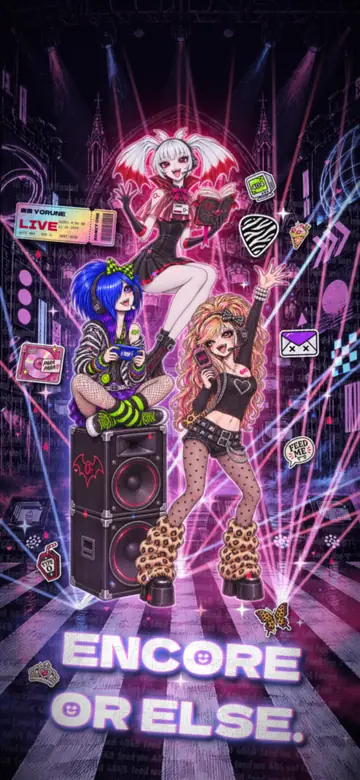
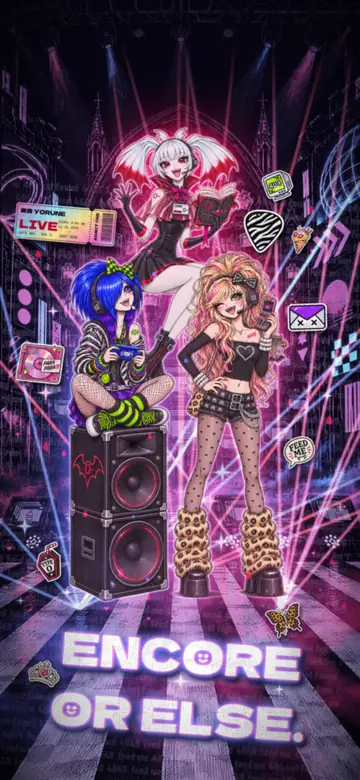
street: LOVE BITES C2, the YORUNE stage phone shows Ageha's new pose

diff --git a/index.html b/index.html
@@ -3504,7 +3504,7 @@ a.bx-cut.tall{flex-basis:36%;max-width:190px;min-width:122px}
 <div class="st-toast" id="st-toast" hidden role="status"></div>
 <script>
 (() => {
-  const ITEMS = {"A1": {"t": "PUT OUT", "k": "comic", "pk": "comic", "w": "COMIC", "what": "COMIC \u00b7 10 PAGES", "verb": "Open the bag", "cnt": 1, "img": "c-cm-putty", "view": "link", "hint": "comic", "pages": [], "caps": [], "go": "reliquary/putty/", "goT": "Read it", "goL": "Read Put Out"}, "A2": {"t": "THE FIGHT CARD", "k": "comic", "pk": "comic", "w": "COMIC", "what": "COMIC \u00b7 10 PAGES", "verb": "Open the bag", "cnt": 1, "img": "c-cm-bloodbath", "view": "link", "hint": "comic", "pages": [], "caps": [], "go": "reliquary/bloodbath/", "goT": "Read it", "goL": "Read The Fight Card"}, "A3": {"t": "THE AFTER PARTY", "k": "comic", "pk": "comic", "w": "COMIC", "what": "COMIC \u00b7 10 PAGES", "verb": "Open the bag", "cnt": 1, "img": "c-cm-afterparty", "view": "link", "hint": "comic", "pages": [], "caps": [], "go": "reliquary/afterparty/", "goT": "Read it", "goL": "Read The After Party"}, "B1": {"t": "12 CHAIRS", "k": "carousel", "pk": "zine", "w": "CAROUSEL", "what": "CAROUSEL \u00b7 16 SLIDES", "verb": "Flip it open", "cnt": 16, "img": "c-B1", "view": "swipe", "hint": "carousel", "pages": ["street/v/B1/01.webp?v=79cb67aa", "street/v/B1/02.webp?v=267f5a54", "street/v/B1/03.webp?v=4a3bafa9", "street/v/B1/04.webp?v=e3f2f2a4", "street/v/B1/05.webp?v=e895ce09", "street/v/B1/06.webp?v=dc1343a4", "street/v/B1/07.webp?v=de89894e", "street/v/B1/08.webp?v=aa40da10", "street/v/B1/09.webp?v=93f21720", "street/v/B1/10.webp?v=085b38cb", "street/v/B1/11.webp?v=e91f2452", "street/v/B1/12.webp?v=903e7208", "street/v/B1/13.webp?v=c654b1aa", "street/v/B1/14.webp?v=c6f5c178", "street/v/B1/15.webp?v=7323d976", "street/v/B1/16.webp?v=8a303df5"], "caps": ["she set out twelve chairs. seven showed up \ud83e\ude91", "plans every job. can&#x27;t touch the loot. still the boss \ud83d\udda4", "their first steal walked out with them \ud83d\udc2f", "she shoots first. that&#x27;s how half the crew got here \ud83d\udcf8", "her fake is still in their vault. nobody noticed \ud83d\udc85", "picks locks with her nails. named relic as a joke \ud83e\udd64", "the church&#x27;s security guard. our favorite inside man \ud83d\udd11", "came to fix the pipes. fixed nothing. has the polo \ud83d\ude90", "five seats left. they don&#x27;t stay empty long \ud83d\udd6f\ufe0f", "she loops their cameras live. smile, you&#x27;re on stream \ud83d\udcfa", "every gun she carries is a camera. still owes dulce \ud83d\udcb8", "watches from the roofs. can&#x27;t stop flying at the fire \ud83e\udd8b", "every witness remembers a clown. that&#x27;s the whole plan \ud83e\udd21", "zero chrome. scans clean. sweetest face in the room \ud83c\udf3b", "twelve chairs. one of them talks to the church \ud83d\udc00", "the chancery owns every miracle. we own a crowbar \ud83e\ude78"], "go": "reliquary/#12-chairs", "goT": "Full size", "goL": "12 Chairs, full size, on the lore page", "rc": [-1]}, "B2": {"t": "PATRON SAINTS", "k": "carousel", "pk": "zine", "w": "CAROUSEL", "what": "CAROUSEL \u00b7 12 SLIDES", "verb": "Flip it open", "cnt": 12, "img": "c-B2", "view": "swipe", "hint": "carousel", "pages": ["street/v/B2/01.webp?v=ee82e979", "street/v/B2/02.webp?v=51699005", "street/v/B2/03.webp?v=cf462aca", "street/v/B2/04.webp?v=d4d7d525", "street/v/B2/05.webp?v=f26f5e2e", "street/v/B2/06.webp?v=1d7cc27e", "street/v/B2/07.webp?v=671ea4e9", "street/v/B2/08.webp?v=2b2d2106", "street/v/B2/09.webp?v=ed66e669", "street/v/B2/10.webp?v=7b44cc51", "street/v/B2/11.webp?v=dbc7f0e5", "street/v/B2/12.webp?v=808609b4"], "caps": ["patron saints for your worst night out \ud83d\udd6f\ufe0f", "for the earring you lost at the function \ud83d\udc8e", "for the morning after. drink water, babe \ud83d\udca7", "for one bar of signal at the club \ud83d\udcf6", "for the bouncer who lets you skip the line \ud83d\udeaa", "imagine paying rent on a miracle. santa ossa does \ud83e\uddfe", "she was the patron saint of getting home safe \ud83d\udd4a\ufe0f", "they rented her out. rich kids never had a bad night \ud83d\udc8d", "one rental too many. her halo split into horns \ud83e\udd40", "she still hears every 3am prayer. she can&#x27;t answer one \ud83c\udf19", "so she walks you home. roof to roof \ud83d\udddd\ufe0f", "they own the saints. we own a crowbar \ud83e\ude78"], "go": "reliquary/#patron-saints", "goT": "Full size", "goL": "Patron Saints, full size, on the lore page", "rc": [-1]}, "B3": {"t": "HOW TO PLAY", "k": "carousel", "pk": "zine", "w": "CAROUSEL", "what": "CAROUSEL \u00b7 13 SLIDES", "verb": "Flip it open", "cnt": 13, "img": "c-B3", "view": "swipe", "hint": "carousel", "pages": ["street/v/B3/01.webp?v=6c05160f", "street/v/B3/02.webp?v=9889ac6b", "street/v/B3/03.webp?v=87db6956", "street/v/B3/04.webp?v=e8acfdda", "street/v/B3/05.webp?v=5f9ed15b", "street/v/B3/06.webp?v=4aa4ac8a", "street/v/B3/07.webp?v=c8cd0893", "street/v/B3/08.webp?v=26483808", "street/v/B3/09.webp?v=55ba0c36", "street/v/B3/10.webp?v=5e9973f4", "street/v/B3/11.webp?v=ab66fa87", "street/v/B3/12.webp?v=f1c9af32", "street/v/B3/13.webp?v=3ca997b2"], "caps": ["the instruction manual for robbing a church \ud83c\udfae", "side effects include a warm feeling and giving it all away \ud83d\ude07", "rob the church. give it away. go home broke \ud83d\udcb8", "pick your apostate. rin shoots first \ud83d\udcf8", "a relic does whatever its saint was patron of \u2728", "brass and stained glass, installed. it glows when it works \ud83d\udd06", "one install each. stacking is how you fall \u26a0\ufe0f", "white plate, gold fire. only smart tricks work on them \ud83d\udd25", "the scanners read chrome. june has none \ud83c\udf3b", "demons can&#x27;t step on holy ground. so cinder bought a dead one \u26ea", "watch your gold. wings mean it&#x27;s over \ud83d\udda4", "how to win: you don&#x27;t. that&#x27;s the game \ud83c\udfc6", "press start. bring a crowbar \ud83d\udd79\ufe0f"], "go": "reliquary/#how-to-play", "goT": "Full size", "goL": "How To Play, full size, on the lore page", "rc": [-1]}, "C2": {"t": "LOCK SCREENS", "k": "page", "pk": "blister", "w": "WALLPAPER", "what": "WALLPAPER \u00b7 29 PHONES", "verb": "Pop it out", "cnt": 29, "img": "c-D1", "view": "swipe", "hint": "wallpaper", "pages": ["street/v/C2/20.webp?v=f3d37e23", "street/v/C2/21.webp?v=2fa003ce", "street/v/C2/22.webp?v=6da8cb44", "street/v/C2/23.webp?v=64f33789", "street/v/C2/24.webp?v=1887d8f5", "street/v/C2/25.webp?v=95b91bd6", "street/v/C2/26.webp?v=10fa123e", "street/v/C2/27.webp?v=5005b0a4", "street/v/C2/28.webp?v=13a6631d", "street/v/C2/29.webp?v=78a22e85", "street/v/C2/17.webp?v=f03dc4c3", "street/v/C2/18.webp?v=5bedc1e8", "street/v/C2/19.webp?v=3735936b", "street/v/C2/13.webp?v=3b3e310b", "street/v/C2/14.webp?v=7d0f905e", "street/v/C2/15.webp?v=155bf4ca", "street/v/C2/16.webp?v=d5513a91", "street/v/C2/12.webp?v=7ae4cb04", "street/v/C2/11.webp?v=ec4d85a4", "street/v/C2/01.webp?v=43bfea5a", "street/v/C2/02.webp?v=02fb72b8", "street/v/C2/03.webp?v=5356161d", "street/v/C2/04.webp?v=d290e3e5", "street/v/C2/05.webp?v=68f3f0a6", "street/v/C2/06.webp?v=5363bc90", "street/v/C2/07.webp?v=927ecebc", "street/v/C2/08.webp?v=ce6fd300", "street/v/C2/09.webp?v=f8953507", "street/v/C2/10.webp?v=a3bad824"], "caps": ["Kibane Chiyu, the blood bank", "Kibane Chiyu, who she is", "Kibane Chiyu at night", "Gone Rei, the dead link", "Gone Rei, who she is", "Gone Rei at night", "Kirane Ageha, the crossing", "Kirane Ageha, who she is", "Kirane Ageha at night", "YORUNE live", "Relic in the pit", "Relic under the rose window", "Relic, not for sale", "Cinder up the tree", "Rin in the darkroom", "Nyx in the tub", "Lena crowd surfing", "BLOODBATH", "Rin as Teto", "CREW", "Bala", "Cinder", "Dulce", "Kuro", "Lena", "Mars", "Nyx", "Putty", "Rin"], "go": "wallpapers/", "goT": "Save one", "goL": "Save a lock screen, full size", "rc": [-1, -1, -1, -1, -1, -1, -1, -1, -1, -1, -1, -1, -1, -1, -1, -1, -1, -1, -1, -1, -1, -1, -1, -1, -1, -1, -1, 2, -1]}, "C3": {"t": "VP DEADEYE", "k": "page", "pk": "bar", "w": "FONT", "what": "FONT \u00b7 FREE TO USE", "verb": "Unwrap it", "cnt": 1, "img": "c-D7", "view": "type", "hint": "font", "pages": ["street/v/C3/01.webp?v=f4529236"], "caps": [], "go": "font/", "goT": "Get it", "goL": "Get the font, free"}};
+  const ITEMS = {"A1": {"t": "PUT OUT", "k": "comic", "pk": "comic", "w": "COMIC", "what": "COMIC \u00b7 10 PAGES", "verb": "Open the bag", "cnt": 1, "img": "c-cm-putty", "view": "link", "hint": "comic", "pages": [], "caps": [], "go": "reliquary/putty/", "goT": "Read it", "goL": "Read Put Out"}, "A2": {"t": "THE FIGHT CARD", "k": "comic", "pk": "comic", "w": "COMIC", "what": "COMIC \u00b7 10 PAGES", "verb": "Open the bag", "cnt": 1, "img": "c-cm-bloodbath", "view": "link", "hint": "comic", "pages": [], "caps": [], "go": "reliquary/bloodbath/", "goT": "Read it", "goL": "Read The Fight Card"}, "A3": {"t": "THE AFTER PARTY", "k": "comic", "pk": "comic", "w": "COMIC", "what": "COMIC \u00b7 10 PAGES", "verb": "Open the bag", "cnt": 1, "img": "c-cm-afterparty", "view": "link", "hint": "comic", "pages": [], "caps": [], "go": "reliquary/afterparty/", "goT": "Read it", "goL": "Read The After Party"}, "B1": {"t": "12 CHAIRS", "k": "carousel", "pk": "zine", "w": "CAROUSEL", "what": "CAROUSEL \u00b7 16 SLIDES", "verb": "Flip it open", "cnt": 16, "img": "c-B1", "view": "swipe", "hint": "carousel", "pages": ["street/v/B1/01.webp?v=79cb67aa", "street/v/B1/02.webp?v=267f5a54", "street/v/B1/03.webp?v=4a3bafa9", "street/v/B1/04.webp?v=e3f2f2a4", "street/v/B1/05.webp?v=e895ce09", "street/v/B1/06.webp?v=dc1343a4", "street/v/B1/07.webp?v=de89894e", "street/v/B1/08.webp?v=aa40da10", "street/v/B1/09.webp?v=93f21720", "street/v/B1/10.webp?v=085b38cb", "street/v/B1/11.webp?v=e91f2452", "street/v/B1/12.webp?v=903e7208", "street/v/B1/13.webp?v=c654b1aa", "street/v/B1/14.webp?v=c6f5c178", "street/v/B1/15.webp?v=7323d976", "street/v/B1/16.webp?v=8a303df5"], "caps": ["she set out twelve chairs. seven showed up \ud83e\ude91", "plans every job. can&#x27;t touch the loot. still the boss \ud83d\udda4", "their first steal walked out with them \ud83d\udc2f", "she shoots first. that&#x27;s how half the crew got here \ud83d\udcf8", "her fake is still in their vault. nobody noticed \ud83d\udc85", "picks locks with her nails. named relic as a joke \ud83e\udd64", "the church&#x27;s security guard. our favorite inside man \ud83d\udd11", "came to fix the pipes. fixed nothing. has the polo \ud83d\ude90", "five seats left. they don&#x27;t stay empty long \ud83d\udd6f\ufe0f", "she loops their cameras live. smile, you&#x27;re on stream \ud83d\udcfa", "every gun she carries is a camera. still owes dulce \ud83d\udcb8", "watches from the roofs. can&#x27;t stop flying at the fire \ud83e\udd8b", "every witness remembers a clown. that&#x27;s the whole plan \ud83e\udd21", "zero chrome. scans clean. sweetest face in the room \ud83c\udf3b", "twelve chairs. one of them talks to the church \ud83d\udc00", "the chancery owns every miracle. we own a crowbar \ud83e\ude78"], "go": "reliquary/#12-chairs", "goT": "Full size", "goL": "12 Chairs, full size, on the lore page", "rc": [-1]}, "B2": {"t": "PATRON SAINTS", "k": "carousel", "pk": "zine", "w": "CAROUSEL", "what": "CAROUSEL \u00b7 12 SLIDES", "verb": "Flip it open", "cnt": 12, "img": "c-B2", "view": "swipe", "hint": "carousel", "pages": ["street/v/B2/01.webp?v=ee82e979", "street/v/B2/02.webp?v=51699005", "street/v/B2/03.webp?v=cf462aca", "street/v/B2/04.webp?v=d4d7d525", "street/v/B2/05.webp?v=f26f5e2e", "street/v/B2/06.webp?v=1d7cc27e", "street/v/B2/07.webp?v=671ea4e9", "street/v/B2/08.webp?v=2b2d2106", "street/v/B2/09.webp?v=ed66e669", "street/v/B2/10.webp?v=7b44cc51", "street/v/B2/11.webp?v=dbc7f0e5", "street/v/B2/12.webp?v=808609b4"], "caps": ["patron saints for your worst night out \ud83d\udd6f\ufe0f", "for the earring you lost at the function \ud83d\udc8e", "for the morning after. drink water, babe \ud83d\udca7", "for one bar of signal at the club \ud83d\udcf6", "for the bouncer who lets you skip the line \ud83d\udeaa", "imagine paying rent on a miracle. santa ossa does \ud83e\uddfe", "she was the patron saint of getting home safe \ud83d\udd4a\ufe0f", "they rented her out. rich kids never had a bad night \ud83d\udc8d", "one rental too many. her halo split into horns \ud83e\udd40", "she still hears every 3am prayer. she can&#x27;t answer one \ud83c\udf19", "so she walks you home. roof to roof \ud83d\udddd\ufe0f", "they own the saints. we own a crowbar \ud83e\ude78"], "go": "reliquary/#patron-saints", "goT": "Full size", "goL": "Patron Saints, full size, on the lore page", "rc": [-1]}, "B3": {"t": "HOW TO PLAY", "k": "carousel", "pk": "zine", "w": "CAROUSEL", "what": "CAROUSEL \u00b7 13 SLIDES", "verb": "Flip it open", "cnt": 13, "img": "c-B3", "view": "swipe", "hint": "carousel", "pages": ["street/v/B3/01.webp?v=6c05160f", "street/v/B3/02.webp?v=9889ac6b", "street/v/B3/03.webp?v=87db6956", "street/v/B3/04.webp?v=e8acfdda", "street/v/B3/05.webp?v=5f9ed15b", "street/v/B3/06.webp?v=4aa4ac8a", "street/v/B3/07.webp?v=c8cd0893", "street/v/B3/08.webp?v=26483808", "street/v/B3/09.webp?v=55ba0c36", "street/v/B3/10.webp?v=5e9973f4", "street/v/B3/11.webp?v=ab66fa87", "street/v/B3/12.webp?v=f1c9af32", "street/v/B3/13.webp?v=3ca997b2"], "caps": ["the instruction manual for robbing a church \ud83c\udfae", "side effects include a warm feeling and giving it all away \ud83d\ude07", "rob the church. give it away. go home broke \ud83d\udcb8", "pick your apostate. rin shoots first \ud83d\udcf8", "a relic does whatever its saint was patron of \u2728", "brass and stained glass, installed. it glows when it works \ud83d\udd06", "one install each. stacking is how you fall \u26a0\ufe0f", "white plate, gold fire. only smart tricks work on them \ud83d\udd25", "the scanners read chrome. june has none \ud83c\udf3b", "demons can&#x27;t step on holy ground. so cinder bought a dead one \u26ea", "watch your gold. wings mean it&#x27;s over \ud83d\udda4", "how to win: you don&#x27;t. that&#x27;s the game \ud83c\udfc6", "press start. bring a crowbar \ud83d\udd79\ufe0f"], "go": "reliquary/#how-to-play", "goT": "Full size", "goL": "How To Play, full size, on the lore page", "rc": [-1]}, "C2": {"t": "LOCK SCREENS", "k": "page", "pk": "blister", "w": "WALLPAPER", "what": "WALLPAPER \u00b7 29 PHONES", "verb": "Pop it out", "cnt": 29, "img": "c-D1", "view": "swipe", "hint": "wallpaper", "pages": ["street/v/C2/20.webp?v=f3d37e23", "street/v/C2/21.webp?v=2fa003ce", "street/v/C2/22.webp?v=6da8cb44", "street/v/C2/23.webp?v=64f33789", "street/v/C2/24.webp?v=1887d8f5", "street/v/C2/25.webp?v=95b91bd6", "street/v/C2/26.webp?v=10fa123e", "street/v/C2/27.webp?v=5005b0a4", "street/v/C2/28.webp?v=13a6631d", "street/v/C2/29.webp?v=583f9424", "street/v/C2/17.webp?v=f03dc4c3", "street/v/C2/18.webp?v=5bedc1e8", "street/v/C2/19.webp?v=3735936b", "street/v/C2/13.webp?v=3b3e310b", "street/v/C2/14.webp?v=7d0f905e", "street/v/C2/15.webp?v=155bf4ca", "street/v/C2/16.webp?v=d5513a91", "street/v/C2/12.webp?v=7ae4cb04", "street/v/C2/11.webp?v=ec4d85a4", "street/v/C2/01.webp?v=43bfea5a", "street/v/C2/02.webp?v=02fb72b8", "street/v/C2/03.webp?v=5356161d", "street/v/C2/04.webp?v=d290e3e5", "street/v/C2/05.webp?v=68f3f0a6", "street/v/C2/06.webp?v=5363bc90", "street/v/C2/07.webp?v=927ecebc", "street/v/C2/08.webp?v=ce6fd300", "street/v/C2/09.webp?v=f8953507", "street/v/C2/10.webp?v=a3bad824"], "caps": ["Kibane Chiyu, the blood bank", "Kibane Chiyu, who she is", "Kibane Chiyu at night", "Gone Rei, the dead link", "Gone Rei, who she is", "Gone Rei at night", "Kirane Ageha, the crossing", "Kirane Ageha, who she is", "Kirane Ageha at night", "YORUNE live", "Relic in the pit", "Relic under the rose window", "Relic, not for sale", "Cinder up the tree", "Rin in the darkroom", "Nyx in the tub", "Lena crowd surfing", "BLOODBATH", "Rin as Teto", "CREW", "Bala", "Cinder", "Dulce", "Kuro", "Lena", "Mars", "Nyx", "Putty", "Rin"], "go": "wallpapers/", "goT": "Save one", "goL": "Save a lock screen, full size", "rc": [-1, -1, -1, -1, -1, -1, -1, -1, -1, -1, -1, -1, -1, -1, -1, -1, -1, -1, -1, -1, -1, -1, -1, -1, -1, -1, -1, 2, -1]}, "C3": {"t": "VP DEADEYE", "k": "page", "pk": "bar", "w": "FONT", "what": "FONT \u00b7 FREE TO USE", "verb": "Unwrap it", "cnt": 1, "img": "c-D7", "view": "type", "hint": "font", "pages": ["street/v/C3/01.webp?v=f4529236"], "caps": [], "go": "font/", "goT": "Get it", "goL": "Get the font, free"}};
   const EXT = {"S0": {"t": "THIRTY-THREE YEARS, ONE MEMO", "w": "PAPER", "code": "THE SCANDAL", "src": "street/s/paper-0.webp?v=b8f2c8ef", "fn": "__nbOpen"}, "S1": {"t": "HER OWN PASS, ONE SONG", "w": "PAPER", "code": "THE SHOP", "src": "street/s/paper-1.webp?v=424cba6c", "fn": "__nbOpen"}, "S2": {"t": "SAN ANTONIO PLAYS AT 11", "w": "PAPER", "code": "THE COUNTDOWN", "src": "street/s/paper-2.webp?v=b48c4e57", "fn": "__nbOpen"}, "S3": {"t": "ONE NIGHT IN MAY", "w": "PAPER", "code": "THE RUN", "src": "street/s/paper-3.webp?v=ddd97b99", "fn": "__nbOpen"}, "S4": {"t": "THE ALBUM HAS A NARRATOR", "w": "PAPER", "code": "THE RECORD", "src": "street/s/paper-4.webp?v=d9dc0663", "fn": "__nbOpen"}, "S5": {"t": "FRIDAY THE 13TH, PICK YOUR NIGHT", "w": "PAPER", "code": "THE CALENDAR", "src": "street/s/paper-5.webp?v=972527a6", "fn": "__nbOpen"}, "S6": {"t": "BOTH BANDS LEFT TOWN", "w": "PAPER", "code": "THE RUN", "src": "street/s/paper-6.webp?v=27a03334", "fn": "__nbOpen"}, "S7": {"t": "THE NEXT HEADLINER WAS A PRANK", "w": "PAPER", "code": "THE SHOP", "src": "street/s/paper-7.webp?v=82a391d2", "fn": "__nbOpen"}, "S8": {"t": "BLACK PUNK IS A LABEL NOW", "w": "PAPER", "code": "THE RECORD", "src": "street/s/paper-8.webp?v=cf42a4bd", "fn": "__nbOpen"}, "S9": {"t": "THE SHOP IS FREE FOR FOURTEEN DAYS", "w": "PAPER", "code": "THE SHOP", "src": "street/s/paper-9.webp?v=d8f52730", "fn": "__nbOpen"}, "S10": {"t": "NOCTURNAL LANDS NOVEMBER 27", "w": "PAPER", "code": "THE RECORD", "src": "street/s/paper-10.webp?v=128669e0", "fn": "__nbOpen"}, "S11": {"t": "SAN ANTONIO, PICK YOUR NIGHT", "w": "PAPER", "code": "THE CALENDAR", "src": "street/s/paper-11.webp?v=782767d0", "fn": "__nbOpen"}, "S12": {"t": "SHOOT THE BAND FROM DAY ONE", "w": "PAPER", "code": "THE CRAFT", "src": "street/s/paper-12.webp?v=c1dca70c", "fn": "__nbOpen"}, "S13": {"t": "HALLOWEEN GOT ITS SATURDAY", "w": "PAPER", "code": "THE COUNTDOWN", "src": "street/s/paper-13.webp?v=10ef66bb", "fn": "__nbOpen"}, "S14": {"t": "HALF A REIGN IN BLOOD", "w": "PAPER", "code": "THE FESTIVAL", "src": "street/s/paper-14.webp?v=e4ae97f6", "fn": "__nbOpen"}, "S15": {"t": "THE ITEM SHOP IS THE NEW MTV", "w": "PAPER", "code": "THE SHOP", "src": "street/s/paper-15.webp?v=a85cd334", "fn": "__nbOpen"}, "S16": {"t": "NOBODY KNOWS WHAT A STREAMER IS", "w": "PAPER", "code": "THE BALLOT", "src": "street/s/paper-16.webp?v=7f679cd3", "fn": "__nbOpen"}, "S17": {"t": "HORROR'S FARM LEAGUE IS THE INTERNET", "w": "PAPER", "code": "THE FILM", "src": "street/s/paper-17.webp?v=20d96d22", "fn": "__nbOpen"}, "S18": {"t": "THIS IS A DORM", "w": "PAPER", "code": "THE ROOMS", "src": "street/s/paper-18.webp?v=e71dba3f", "fn": "__nbOpen"}, "S19": {"t": "SEVEN SEATS AT THE BACK OF THE LIST", "w": "PAPER", "code": "THE RECORD", "src": "street/s/paper-19.webp?v=f1cd397d", "fn": "__nbOpen"}, "S20": {"t": "AND THEN NOTHING HAPPENED", "w": "PAPER", "code": "THE CRAFT", "src": "street/s/paper-20.webp?v=d47b2133", "fn": "__nbOpen"}, "S21": {"t": "WHAT THE DIRECTOR WHISPERED", "w": "PAPER", "code": "THE CRAFT", "src": "street/s/paper-21.webp?v=1960f6aa", "fn": "__nbOpen"}, "S22": {"t": "IT WAS NEVER ONE TAKE", "w": "PAPER", "code": "THE CRAFT", "src": "street/s/paper-22.webp?v=44ac9c9a", "fn": "__nbOpen"}, "S23": {"t": "EVERY LIGHT NEEDS AN ALIBI", "w": "PAPER", "code": "THE CRAFT", "src": "street/s/paper-23.webp?v=589af33e", "fn": "__nbOpen"}, "S24": {"t": "THE LIGHTSABER WAS A PROJECTOR", "w": "PAPER", "code": "THE CRAFT", "src": "street/s/paper-24.webp?v=55ed2a93", "fn": "__nbOpen"}, "S25": {"t": "THE VAMPIRE PAINTER DREW 2HOLLIS", "w": "PAPER", "code": "THE RECORD", "src": "street/s/paper-25.webp?v=b8eeef94", "fn": "__nbOpen"}, "S26": {"t": "LAST LOOK BEFORE THE TAPE", "w": "PAPER", "code": "THE RUN", "src": "street/s/paper-26.webp?v=7daad7c9", "fn": "__nbOpen"}, "S27": {"t": "THE HAUNTED HOUSE HAS A WAIVER NOW", "w": "PAPER", "code": "THE COUNTDOWN", "src": "street/s/paper-27.webp?v=5a53bf9b", "fn": "__nbOpen"}, "S28": {"t": "THE WOLF KEEPS A CALENDAR", "w": "PAPER", "code": "THE FILM", "src": "street/s/paper-28.webp?v=80059fc1", "fn": "__nbOpen"}, "S29": {"t": "FOUR PRINTS OF A WET NIGHT", "w": "PAPER", "code": "THE NIGHT", "src": "street/s/paper-29.webp?v=814f8e7a", "fn": "__nbOpen"}, "S30": {"t": "FOUR BANDS AND ONE RED LIGHT", "w": "PAPER", "code": "THE NIGHT", "src": "street/s/paper-30.webp?v=b1c7e11e", "fn": "__nbOpen"}, "S31": {"t": "EMERALD, CREAM AND TAKEOUT RED", "w": "PAPER", "code": "THE NIGHT", "src": "street/s/paper-31.webp?v=d4f5e717", "fn": "__nbOpen"}, "S32": {"t": "SILVER, BLOOD AND LAPIS", "w": "PAPER", "code": "THE NIGHT", "src": "street/s/paper-32.webp?v=eceaa6d8", "fn": "__nbOpen"}, "S33": {"t": "THE TREES CAME OUT CRIMSON", "w": "PAPER", "code": "THE NIGHT", "src": "street/s/paper-33.webp?v=858900fa", "fn": "__nbOpen"}, "S34": {"t": "THE ROOM WAS DEAD SO WE LEFT", "w": "PAPER", "code": "THE NIGHT", "src": "street/s/paper-34.webp?v=02b1b461", "fn": "__nbOpen"}, "S35": {"t": "RED ON RED ON RED", "w": "PAPER", "code": "THE NIGHT", "src": "street/s/paper-35.webp?v=624f28b1", "fn": "__nbOpen"}, "S36": {"t": "BULL MADRID, THEN EVERYONE IN BLACK", "w": "PAPER", "code": "THE NIGHT", "src": "street/s/paper-36.webp?v=a96ae119", "fn": "__nbOpen"}, "S37": {"t": "EVERY ROOM A DIFFERENT COLOUR", "w": "PAPER", "code": "THE NIGHT", "src": "street/s/paper-37.webp?v=e96a7124", "fn": "__nbOpen"}, "S38": {"t": "THE NIGHT BEFORE B.I.L.L.Y", "w": "PAPER", "code": "THE NIGHT", "src": "street/s/paper-38.webp?v=69c81135", "fn": "__nbOpen"}, "S39": {"t": "THE AFTERPARTY IS THE SAN ANTONIO DATE", "w": "PAPER", "code": "THE RUN", "src": "street/s/paper-39.webp?v=75d092a9", "fn": "__nbOpen"}, "S40": {"t": "SAN ANTONIO GOES FIRST", "w": "PAPER", "code": "THE ARENA", "src": "street/s/paper-40.webp?v=acb8a539", "fn": "__nbOpen"}, "S41": {"t": "GET THERE EARLY", "w": "PAPER", "code": "THE RUN", "src": "street/s/paper-41.webp?v=8ca1bc3a", "fn": "__nbOpen"}, "S42": {"t": "THE BLOOD COUNTESS IS PLAYING AUSTIN", "w": "PAPER", "code": "THE FESTIVAL", "src": "street/s/paper-42.webp?v=1c6378af", "fn": "__nbOpen"}, "S43": {"t": "THEY WILL THINK YOU ARE A LUNATIC", "w": "PAPER", "code": "THE INTERVIEW", "src": "street/s/paper-43.webp?v=327cfb8d", "fn": "__nbOpen"}, "S44": {"t": "ONE CLOWN PER FIVE CIVILIANS", "w": "PAPER", "code": "THE NIGHT", "src": "street/s/paper-44.webp?v=5fe7047b", "fn": "__nbOpen"}, "S45": {"t": "SIXTEEN, A LAPTOP, FOUR HUNDRED MILLION", "w": "PAPER", "code": "THE DEBUT", "src": "street/s/paper-45.webp?v=cc916e83", "fn": "__nbOpen"}, "S46": {"t": "OPIUM BOUGHT THE WHOLE CONVENTION", "w": "PAPER", "code": "THE TAKEOVER", "src": "street/s/paper-46.webp?v=c657ec15", "fn": "__nbOpen"}, "S47": {"t": "NOBODY SAYS A WORD", "w": "PAPER", "code": "THE FILM", "src": "street/s/paper-47.webp?v=57312ecc", "fn": "__nbOpen"}, "S48": {"t": "THE RAGE KID GOT SOBER", "w": "PAPER", "code": "THE RECORD", "src": "street/s/paper-48.webp?v=66aa4d99", "fn": "__nbOpen"}, "S49": {"t": "GOTH WITH A BEAUTY BUDGET", "w": "PAPER", "code": "THE LOOK", "src": "street/s/paper-49.webp?v=f948cf43", "fn": "__nbOpen"}, "S50": {"t": "THE FALL RUN", "w": "PAPER", "code": "THE CALENDAR", "src": "street/s/paper-50.webp?v=24f0f710", "fn": "__nbOpen"}, "N0": {"t": "BLOODBATH 4", "w": "PHOTOS", "code": "11.13.26", "src": "street/s/pb/0-1.webp?v=07e0c181", "fn": "__pbOpen"}, "N1": {"t": "THE ODD BALL", "w": "PHOTOS", "code": "10.31.26", "src": "street/s/pb/1-1.webp?v=662c504f", "fn": "__pbOpen"}, "N2": {"t": "PULSE ANGELS 3", "w": "PHOTOS", "code": "10.03.26", "src": "street/s/pb/2-1.webp?v=641b2703", "fn": "__pbOpen"}, "N3": {"t": "WAP", "w": "PHOTOS", "code": "09.25.26", "src": "street/s/pb/3-1.webp?v=cfc22924", "fn": "__pbOpen"}, "N4": {"t": "HARAMBE 4 EVER", "w": "PHOTOS", "code": "09.24.26", "src": "street/s/pb/4-1.webp?v=07919176", "fn": "__pbOpen"}, "N5": {"t": "CHILL & SMOKE", "w": "PHOTOS", "code": "09.20.26", "src": "street/s/pb/5-1.webp?v=ca3e6f7c", "fn": "__pbOpen"}, "N6": {"t": "THIRD FRIDAY NIGHT MARKET", "w": "PHOTOS", "code": "09.18.26", "src": "street/s/pb/6-1.webp?v=21a9bebc", "fn": "__pbOpen"}, "N7": {"t": "BAPTISM", "w": "PHOTOS", "code": "09.18.26", "src": "street/s/pb/7-1.webp?v=47492a0f", "fn": "__pbOpen"}, "N8": {"t": "BAR HOP", "w": "PHOTOS", "code": "09.17.26", "src": "street/s/pb/8-1.webp?v=1e1394c0", "fn": "__pbOpen"}, "N9": {"t": "SADBOYZ CLUB", "w": "PHOTOS", "code": "09.16.26", "src": "street/s/pb/9-1.webp?v=5ffc2513", "fn": "__pbOpen"}, "N10": {"t": "BURLESQUE NIGHT", "w": "PHOTOS", "code": "09.13.26", "src": "street/s/pb/10-1.webp?v=5775ceed", "fn": "__pbOpen"}, "N11": {"t": "LUCHA NIGHT", "w": "PHOTOS", "code": "09.12.26", "src": "street/s/pb/11-1.webp?v=c792dc1b", "fn": "__pbOpen"}, "N12": {"t": "MIGX", "w": "PHOTOS", "code": "09.12.26", "src": "street/s/pb/12-1.webp?v=0dbff6bb", "fn": "__pbOpen"}, "N13": {"t": "BRAINROT", "w": "PHOTOS", "code": "09.11.26", "src": "street/s/pb/13-1.webp?v=1c8aeda4", "fn": "__pbOpen"}, "N14": {"t": "B.I.L.L.Y RELEASE PARTY", "w": "PHOTOS", "code": "09.01.26", "src": "street/s/pb/14-1.webp?v=525c583c", "fn": "__pbOpen"}, "N15": {"t": "CLOWN CHURCH", "w": "PHOTOS", "code": "08.30.26", "src": "street/s/pb/15-1.webp?v=3516f79b", "fn": "__pbOpen"}, "N16": {"t": "RESIDENT EVIL VS SILENT HILL", "w": "PHOTOS", "code": "08.25.26", "src": "street/s/pb/16-1.webp?v=8a8c1cf7", "fn": "__pbOpen"}, "N17": {"t": "THE SHOWCASE", "w": "PHOTOS", "code": "08.23.26", "src": "street/s/pb/17-1.webp?v=3b0697ea", "fn": "__pbOpen"}, "N18": {"t": "THIRD FRIDAY NIGHT MARKET", "w": "PHOTOS", "code": "08.21.26", "src": "street/s/pb/18-1.webp?v=2b9be5aa", "fn": "__pbOpen"}, "N19": {"t": "THE MIX", "w": "PHOTOS", "code": "08.16.26", "src": "street/s/pb/19-1.webp?v=5647b033", "fn": "__pbOpen"}, "N20": {"t": "BLADE RAVE", "w": "PHOTOS", "code": "08.14.26", "src": "street/s/pb/20-1.webp?v=f9d25922", "fn": "__pbOpen"}, "JA1": {"t": "ØWAY", "w": "RECORD", "code": "A1", "src": "street/s/jb-art-3gaH1lcvaoTibA4dZ1CyzK.webp?v=5ba1889d", "fn": "__jbOpen"}, "JA2": {"t": "24HRS", "w": "RECORD", "code": "A2", "src": "street/s/jb-art-0AlTIOiF5u0sHdsEvBU2av.webp?v=921e74f0", "fn": "__jbOpen"}, "JA3": {"t": "LL50", "w": "RECORD", "code": "A3", "src": "street/s/jb-art-0NwBVCDFDAXvhhlqeUEVIf.webp?v=7d6895b7", "fn": "__jbOpen"}, "JA4": {"t": "TURN UP", "w": "RECORD", "code": "A4", "src": "street/s/jb-art-1s5P9UA3dokSsHaEH8rYn1.webp?v=fac130a3", "fn": "__jbOpen"}, "JA5": {"t": "WHITE FLAG", "w": "RECORD", "code": "A5", "src": "street/s/jb-art-2WyUJEFZ6vQzTwSdKzqLrx.webp?v=1e32f2e2", "fn": "__jbOpen"}, "JA6": {"t": "I THINK HE'S GOT A GIRL", "w": "RECORD", "code": "A6", "src": "street/s/jb-art-5KJwFcJc0m1u4F8mVkwT5Y.webp?v=56a74865", "fn": "__jbOpen"}, "JA7": {"t": "LIGHT LEAK", "w": "RECORD", "code": "A7", "src": "street/s/jb-art-10Fq3Aq8hu8hELDkpYWJVf.webp?v=9034bb99", "fn": "__jbOpen"}, "JB1": {"t": "EVERYWHERE", "w": "RECORD", "code": "B1", "src": "street/s/jb-art-3R4688V6wZhUXxH7DFLBoY.webp?v=e1fbe1a0", "fn": "__jbOpen"}, "JB2": {"t": "UNDER YOUR LASHLINE", "w": "RECORD", "code": "B2", "src": "street/s/jb-art-70U39BTtK06FqZuXIRcUEM.webp?v=b21a57ab", "fn": "__jbOpen"}, "JB3": {"t": "TALK", "w": "RECORD", "code": "B3", "src": "street/s/jb-art-0Dp8NZ0BhiwhpN1IcamiEu.webp?v=1342a714", "fn": "__jbOpen"}, "JB4": {"t": "SAILBOAT", "w": "RECORD", "code": "B4", "src": "street/s/jb-art-6OEAYL6JjgBA5Yg5PJBNqO.webp?v=0f7947f3", "fn": "__jbOpen"}, "JB5": {"t": "PINK (GET AWAY)", "w": "RECORD", "code": "B5", "src": "street/s/jb-art-1TK7n7ZQE2iDBbiTQvrHvr.webp?v=1394a715", "fn": "__jbOpen"}, "JB6": {"t": "ONLY TODAY", "w": "RECORD", "code": "B6", "src": "street/s/jb-art-2dMRW9t0csaozuPP7JebmQ.webp?v=49cf3574", "fn": "__jbOpen"}, "JB7": {"t": "FLOATING AWAY", "w": "RECORD", "code": "B7", "src": "street/s/jb-art-7bj1SvqfF46rvDgn9wfhWh.webp?v=8c193e59", "fn": "__jbOpen"}, "JB8": {"t": "EYE LIED", "w": "RECORD", "code": "B8", "src": "street/s/jb-art-099dR5vpsek2xnyxGKnJUK.webp?v=ceca29af", "fn": "__jbOpen"}, "JB9": {"t": "STARDUST BREAKER", "w": "RECORD", "code": "B9", "src": "street/s/jb-art-0KJIm3Ukd82n0d7VOCQWWI.webp?v=59b19f78", "fn": "__jbOpen"}, "JC1": {"t": "JUNE 27TH - FEAT. Z-RO & DJ SCREW", "w": "RECORD", "code": "C1", "src": "street/s/jb-art-4sJZeavYykvwfhrXGv9Qy9.webp?v=f4c22bca", "fn": "__jbOpen"}, "JC2": {"t": "SOUTHSIDE", "w": "RECORD", "code": "C2", "src": "street/s/jb-art-1diqY2tozk63skJIQrCkq1.webp?v=f1f5d16c", "fn": "__jbOpen"}, "JC3": {"t": "GHETTO DREAMS", "w": "RECORD", "code": "C3", "src": "street/s/jb-art-2yXxo8fiEWIoC69FWyogsO.webp?v=3b7d5273", "fn": "__jbOpen"}, "JC4": {"t": "DIAMONDS & WOOD (FEAT. SMOKE D)", "w": "RECORD", "code": "C4", "src": "street/s/jb-art-2z8tZ7BZ1GzFIlaPt5qWKx.webp?v=a6aec0eb", "fn": "__jbOpen"}, "JC5": {"t": "INT'L PLAYERS ANTHEM (I CHOOSE YOU) (FEAT. OUTKAST)", "w": "RECORD", "code": "C5", "src": "street/s/jb-art-4ns1XFP3W5JPyzvnAjMdHD.webp?v=4ce8aa4c", "fn": "__jbOpen"}, "JC6": {"t": "MO CITY DON", "w": "RECORD", "code": "C6", "src": "street/s/jb-art-338VhnERUjSnXmIFGuxonu.webp?v=f4af654c", "fn": "__jbOpen"}, "JC7": {"t": "CALL MY PHONE", "w": "RECORD", "code": "C7", "src": "street/s/jb-art-7yUX0uaQhXpl2jMfHK3AUg.webp?v=110dcb77", "fn": "__jbOpen"}, "JC8": {"t": "CLEB FLOW", "w": "RECORD", "code": "C8", "src": "street/s/jb-art-1S775nWRwKYQDKjUyIZZ8F.webp?v=ff0a673b", "fn": "__jbOpen"}, "JC9": {"t": "RIDIN'", "w": "RECORD", "code": "C9", "src": "street/s/jb-art-3kZoay4ANo86ehb6s4RwS9.webp?v=182f4c8c", "fn": "__jbOpen"}, "JC0": {"t": "BREAK EM' OFF (FEAT. LIL' KEKE)", "w": "RECORD", "code": "C0", "src": "street/s/jb-art-3xhTCpyWpZJ6z5miHy8TRF.webp?v=fa82235c", "fn": "__jbOpen"}, "JD1": {"t": "SAILIN' DA SOUTH - SCREWED", "w": "RECORD", "code": "D1", "src": "street/s/jb-art-7cUoXJUcbba7lzQ937Mq7M.webp?v=45bf54dd", "fn": "__jbOpen"}, "JD2": {"t": "KNOCKIN PICTURES OFF THE WALL (FEAT. LIL' FLEX, LIL PAT, JASMINE & JHIAME)", "w": "RECORD", "code": "D2", "src": "street/s/jb-art-2dbhHrMBb86QhCq4MVKmIT.webp?v=aaa3c85a", "fn": "__jbOpen"}, "JD3": {"t": "STILL TIPPIN' (FEAT. SLIM THUG AND PAUL WALL)", "w": "RECORD", "code": "D3", "src": "street/s/jb-art-59rtiYOPgMEDf3yPEfU2la.webp?v=5a012b97", "fn": "__jbOpen"}, "JD4": {"t": "LORD PRETTY FLACKO JODYE 2 (LPFJ2)", "w": "RECORD", "code": "D4", "src": "street/s/jb-art-1j6kDJttn6wbVyMaM42Nxm.webp?v=361a7c5e", "fn": "__jbOpen"}, "JD5": {"t": "SKY", "w": "RECORD", "code": "D5", "src": "street/s/jb-art-29TPjc8wxfz4XMn21O7VsZ.webp?v=a0f48ddb", "fn": "__jbOpen"}, "JD6": {"t": "NOW I'M HIGH, REALLY HIGH", "w": "RECORD", "code": "D6", "src": "street/s/jb-art-5LTg537JAj70RdfMeo1VUw.webp?v=7f59189d", "fn": "__jbOpen"}, "T1": {"t": "YOUR STUB", "w": "TICKET STUB", "code": "T1", "src": "street/r/ticket.webp?v=932310be", "fn": "__tkOpen"}, "F1": {"t": "CERTIFIED REAL", "w": "CERTIFICATE", "code": "F1", "src": "street/s/ft-eye.webp?v=f4e526b3", "fn": "__ftOpen"}, "K1": {"t": "SLATE", "w": "KIT TOOL", "code": "K1", "src": "street/r/slate.webp?v=19607189", "fn": "__rcOpen"}, "K2": {"t": "PROMPTER", "w": "KIT TOOL", "code": "K2", "src": "street/r/prompter.webp?v=51a98b3e", "fn": "__rcOpen"}, "K3": {"t": "TAKE LOG", "w": "KIT TOOL", "code": "K3", "src": "street/r/notebook.webp?v=8f1bbb22", "fn": "__rcOpen"}, "K4": {"t": "RELEASE", "w": "KIT TOOL", "code": "K4", "src": "street/r/clipboard.webp?v=f10df9e3", "fn": "__rcOpen"}, "K5": {"t": "GOLDEN HOUR", "w": "KIT TOOL", "code": "K5", "src": "street/r/sun.webp?v=41ac20ef", "fn": "__rcOpen"}, "K6": {"t": "VIEWFINDER", "w": "KIT TOOL", "code": "K6", "src": "street/r/viewfinder.webp?v=d1ff6d07", "fn": "__rcOpen"}, "K7": {"t": "EXPOSURE", "w": "KIT TOOL", "code": "K7", "src": "street/r/lightmeter.webp?v=f251ad30", "fn": "__rcOpen"}, "K8": {"t": "SLOW-MO", "w": "KIT TOOL", "code": "K8", "src": "street/r/cine-camera.webp?v=84f717b0", "fn": "__rcOpen"}, "K9": {"t": "STOPWATCH", "w": "KIT TOOL", "code": "K9", "src": "street/r/stopwatch.webp?v=383d53b0", "fn": "__rcOpen"}, "K10": {"t": "SCREENS", "w": "KIT TOOL", "code": "K10", "src": "street/r/tv.webp?v=2d667a13", "fn": "__rcOpen"}, "H1": {"t": "TODAY'S READING", "w": "HOLY CARD", "code": "H1", "src": "street/s/hv-heartsword.webp?v=e57e7aea", "fn": "__hvOpen"}}; let bagFrom = null;
   window.__lb = { add: c => addToBag(c), count: () => bag.length, openBag: f => { bagFrom = f || null; openBag(); } };
   const CM = [{"t": "THE AFTER PARTY", "name": "The After Party", "who": "", "go": "reliquary/afterparty/"}, {"t": "THE FIGHT CARD", "name": "The Fight Card", "who": "", "go": "reliquary/bloodbath/"}, {"t": "PUT OUT", "name": "Put Out", "who": "Putty", "go": "reliquary/putty/"}];      /* the comic issues that are out, newest first (the receipt points at them) */
